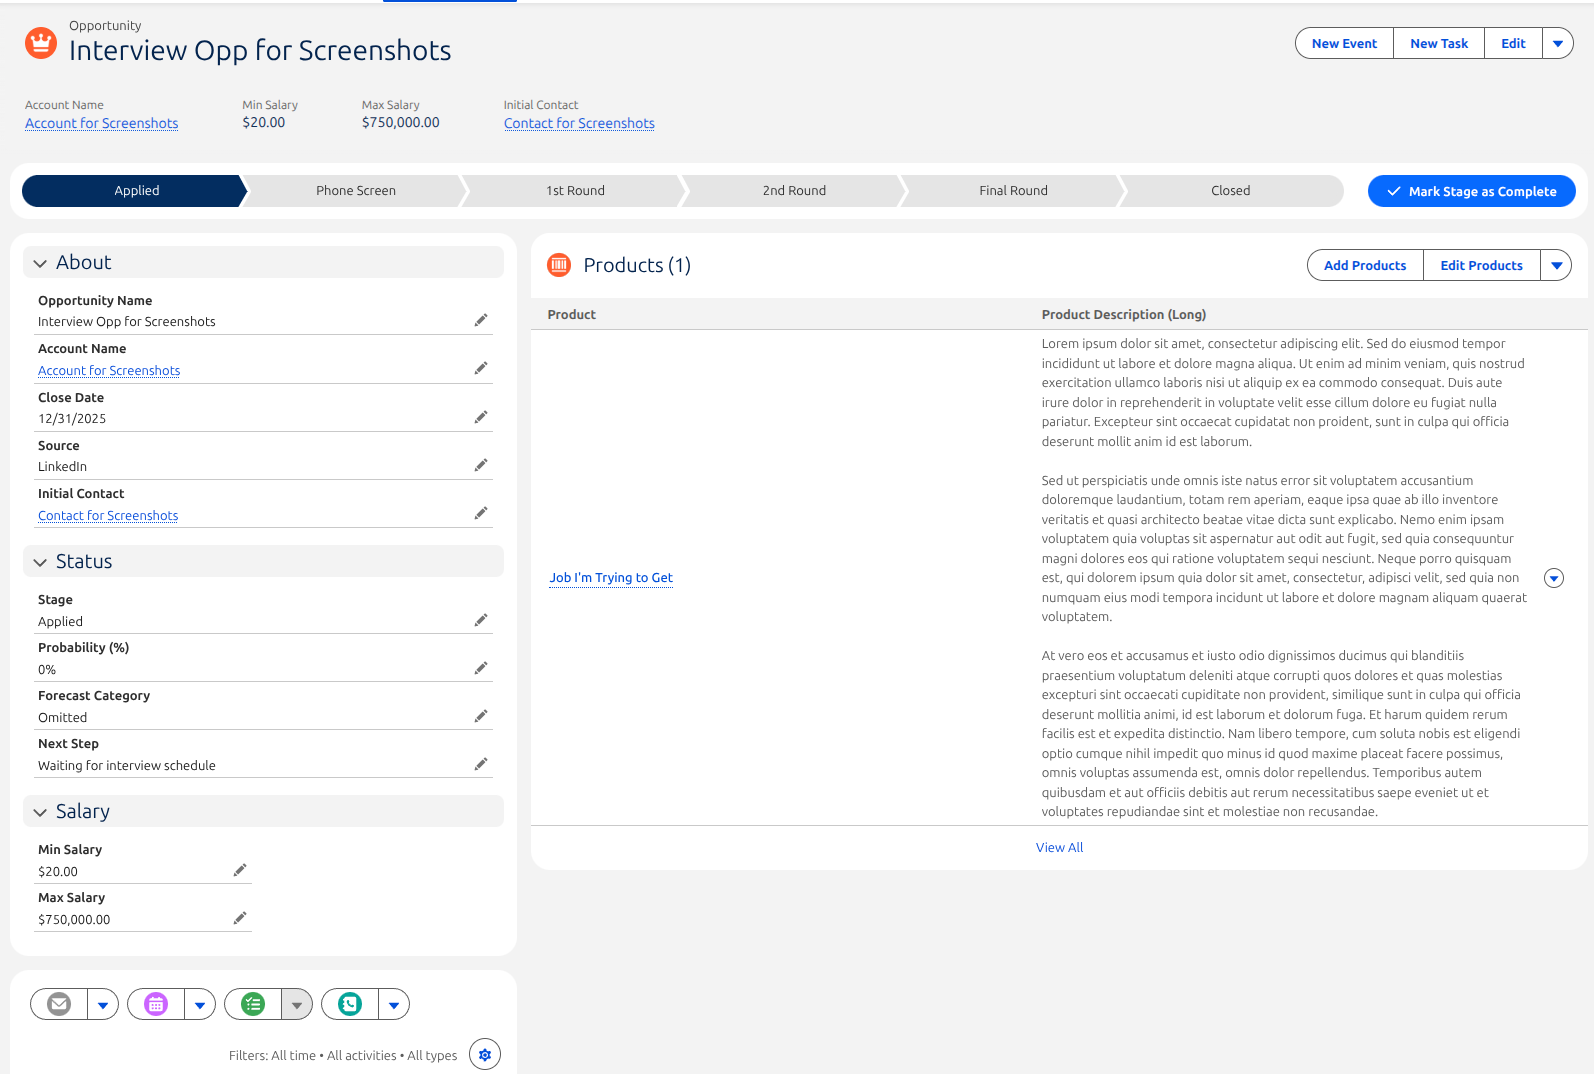
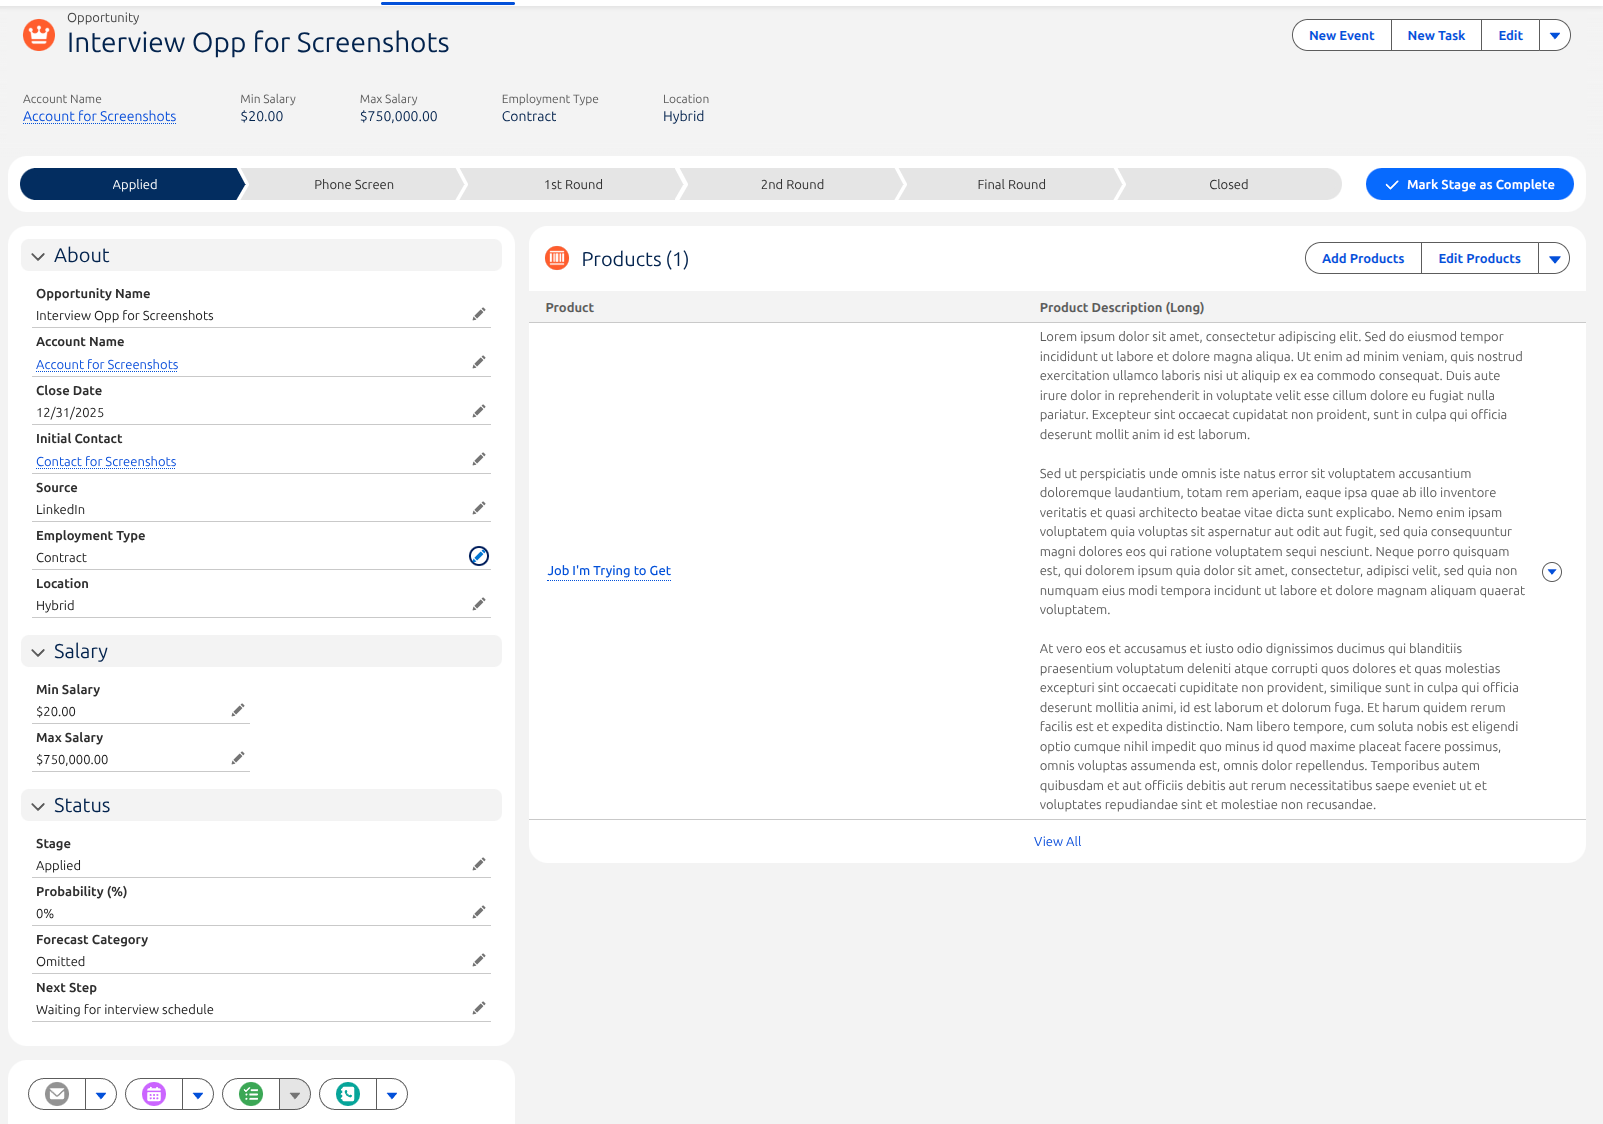
Updates! New screenshot, too.

diff --git a/mc-git-kb/docs/salesforce/sfdc-free-tier.md b/mc-git-kb/docs/salesforce/sfdc-free-tier.md
@@ -23,7 +23,9 @@
 | | | Interview | Specific to job hunting |
 | Lt Rec Pg | Opportunity | Opp_Interview | Specific to job hunting |
 | Picklist | Opportunity | Source_Interview| Specific to job hunting<br>Show what you like, but I have the Products Related List as a Related List (Basic List) - Single and only showing the Product and the Product Description (Long). Yes, this is... large... but it shows the data I'm after. |
-| | Opportunity | Interview Stages | Applied (0%) [Omitted]<br>Phone Screen (10%)<br>1st Round (25%)<br>2nd Round(50%)<br>Final Round (75%)<br>Standard Closed Won/Lost |
+| | | Interview Stages | Applied (0%) [Omitted]<br>Phone Screen (10%)<br>1st Round (25%)<br>2nd Round(50%)<br>Final Round (75%)<br>Standard Closed Won/Lost |
+| | | Location | Hybrid<br>On-Site<br>Remote |
+| | | Employment Type | Contract<br>Full-Time<br>Part-Time<br>Temp |
 | Currency | Opportunity | Min Salary | Due to limitations I can't cram this in via Product or Price Book Entry, and since the Opp is for only one Product, this seems workable |
 | | | Max Salary | See above |
 | Lookup | Opportunity | Initial Contact | This is more for Recruiters, but this reminds me who I should be looking for in email and/or LinkedIn, etc. |
@@ -33,8 +35,3 @@
 
 #### Example of Interview Opportunity
 ![Interview Opp](../../assets/images/sfdc-free-opp-interview.png)
-
-!!! tip "To Do"
-    - Add Min / Max Range to Product and Opportunity for Job Products<br>
-    - Add Contract/FTE/Hybrid/Onsite to Product/Opp
-
